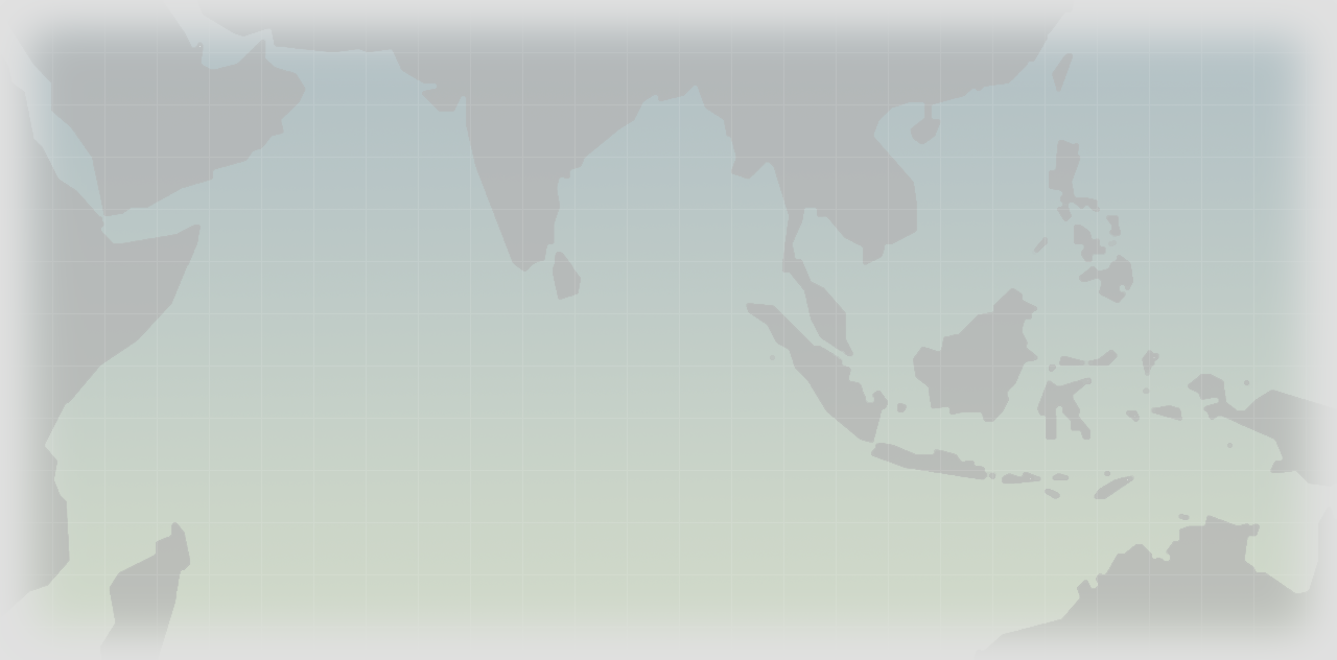
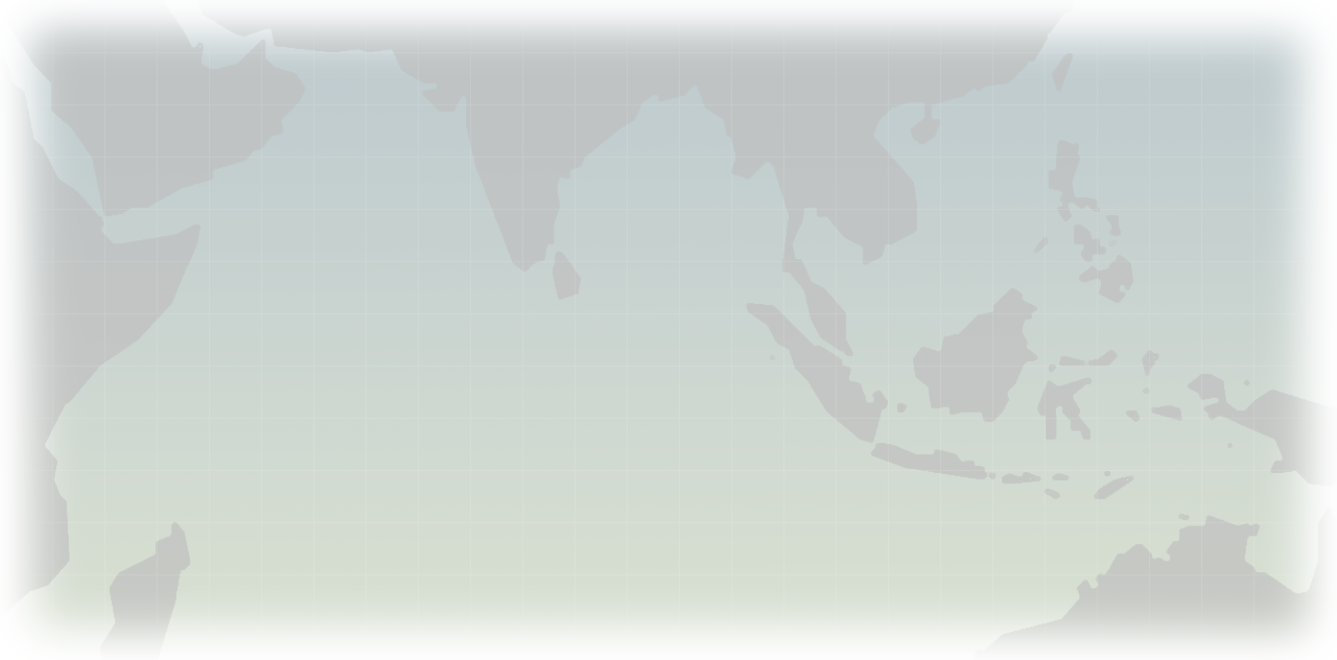
Some style changes.

Changed region(s): [[0.0, 0.0, 1.0, 1.0]]

diff --git a/public/stylesheets/style.css b/public/stylesheets/style.css
@@ -1,5 +1,5 @@
 body {
- 	background-color: #999999;
+ 	background-color: #ffffff;
   background: url('../images/background.png') fixed no-repeat;
   margin: 15px 25px;
   font-family: Helvetica, Arial, sans-serif;
